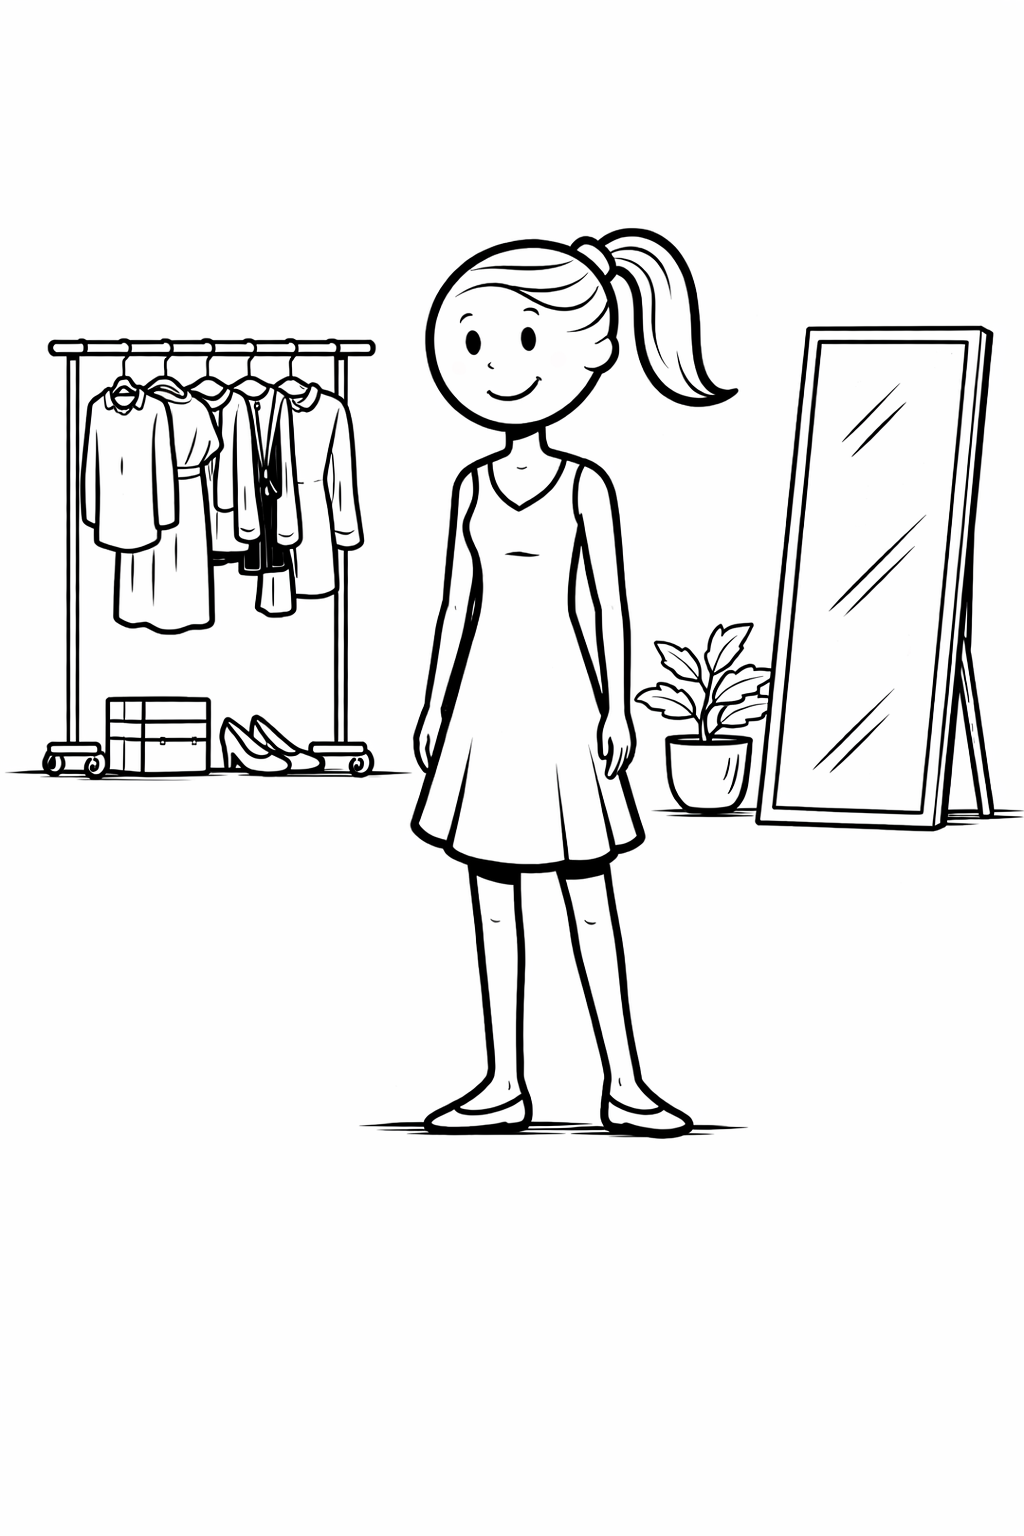
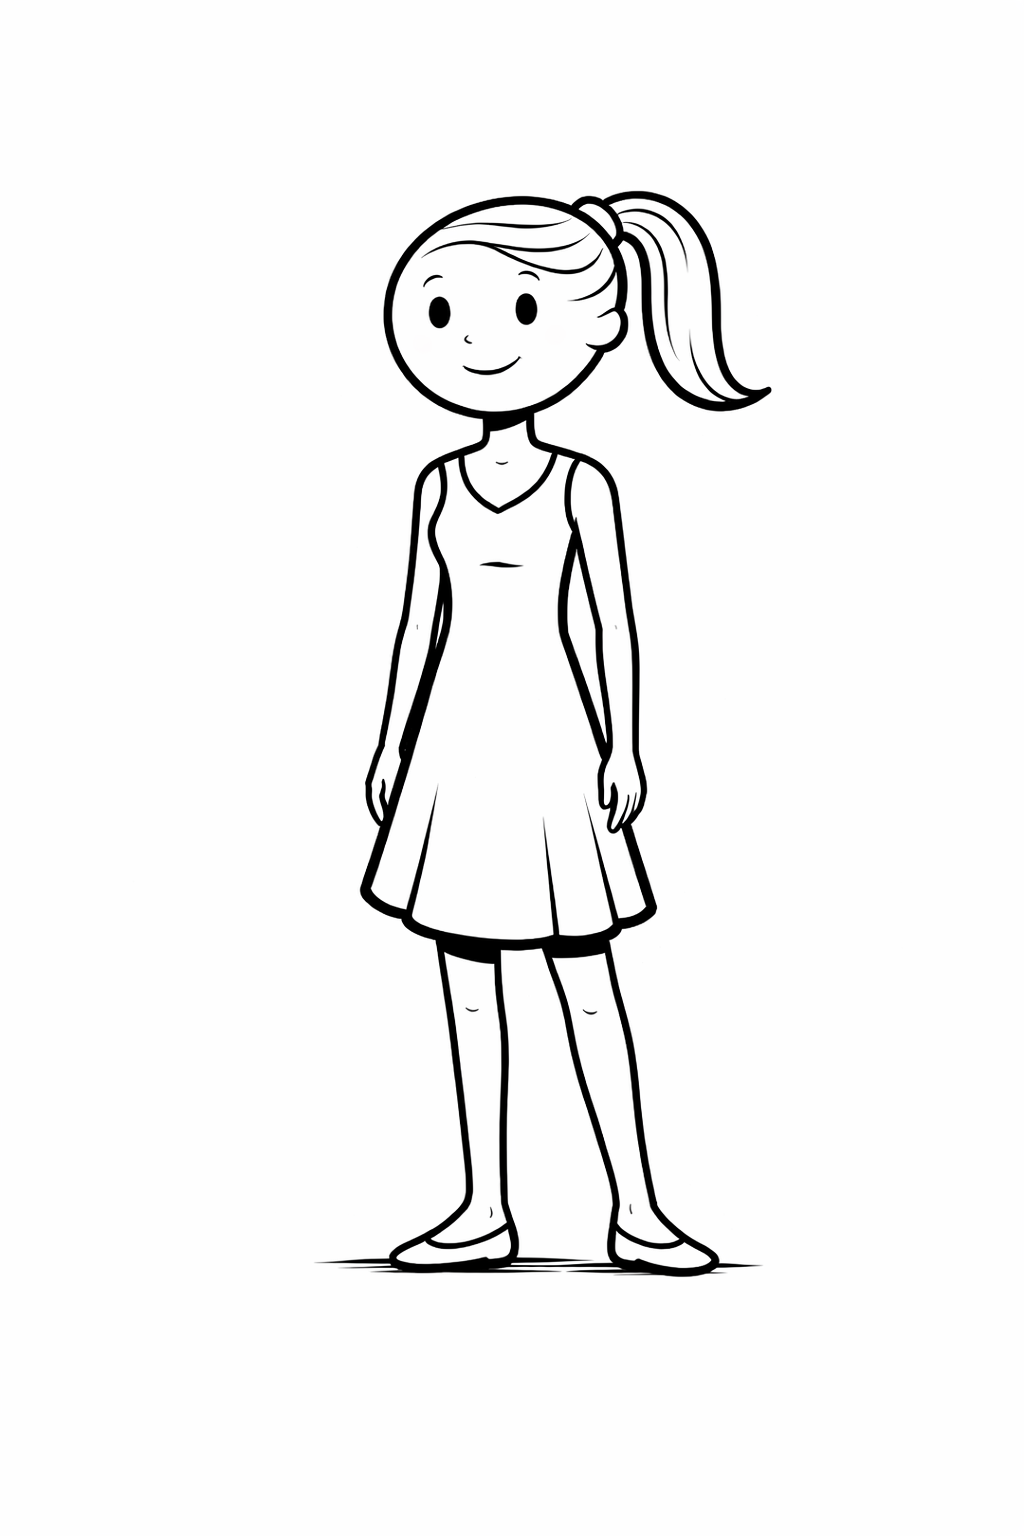
Fix brainstorming notes persistence and improve UI
- Fix brain dump notes reappearing after being handled (dismissed or appended)
  by tracking handled text in brainDumpHandledText field
- Update Production.tsx and StandaloneContentFlow.tsx with new logic
- Replace wide-shot illustration with new image
- Scale shot illustrations 20% larger (except reaction-moment and close-detail)
- Disable scroll in schedule dialog and reposition Batch Schedule button

Changed region(s): [[0.0312, 0.125, 0.9688, 0.8438], [0.8438, 0.3438, 0.875, 0.375], [0.8125, 0.375, 0.8438, 0.4062]]

diff --git a/src/pages/Production.tsx b/src/pages/Production.tsx
@@ -1147,12 +1147,13 @@ const Production = () => {
     setCustomVideoFormats(card.customVideoFormats || []);
     setCustomPhotoFormats(card.customPhotoFormats || []);
     // Check if card has brain dump notes from Ideate column
-    // Only show if notes exist AND haven't already been appended to the script
+    // Only show if notes exist AND haven't already been handled (dismissed or appended)
     const notesText = card.description?.trim() || "";
-    const scriptText = card.script?.trim() || "";
-    const notesAlreadyInScript = notesText && scriptText.includes(notesText);
+    const alreadyHandledText = card.brainDumpHandledText?.trim() || "";
+    const hasNotes = notesText.length > 0;
+    const alreadyHandled = alreadyHandledText.length > 0 && notesText === alreadyHandledText;
 
-    if (notesText && !notesAlreadyInScript) {
+    if (hasNotes && !alreadyHandled) {
       setBrainDumpSuggestion(card.description!);
       setShowBrainDumpSuggestion(true);
     } else {
@@ -1476,10 +1477,12 @@ const Production = () => {
     setSchedulingCard(card);
 
     // Check for brain dump suggestion
+    // Only show if notes exist AND haven't already been handled (dismissed or appended)
     const notesText = card.description?.trim() || "";
-    const scriptText = card.script?.trim() || "";
-    const notesAlreadyInScript = notesText && scriptText.includes(notesText);
-    if (notesText && !notesAlreadyInScript) {
+    const alreadyHandledText = card.brainDumpHandledText?.trim() || "";
+    const hasNotes = notesText.length > 0;
+    const alreadyHandled = alreadyHandledText.length > 0 && notesText === alreadyHandledText;
+    if (hasNotes && !alreadyHandled) {
       setBrainDumpSuggestion(card.description!);
       setShowBrainDumpSuggestion(true);
     } else {
@@ -1708,6 +1711,33 @@ const Production = () => {
     });
   };
 
+  // Handler for brain dump suggestion dismissal - saves the handled text to prevent reappearing
+  const handleBrainDumpDismiss = (show: boolean) => {
+    console.log('[BrainDump Prod] handleBrainDumpDismiss called with show:', show);
+    setShowBrainDumpSuggestion(show);
+
+    if (!show) {
+      // When dismissing, save the current description as handled text
+      const currentCard = contentFlowCard || editingScriptCard;
+      console.log('[BrainDump Prod] currentCard:', currentCard?.id, 'description:', currentCard?.description);
+
+      if (currentCard && currentCard.description) {
+        // Update the card with brainDumpHandledText
+        setColumns((prev) =>
+          prev.map((col) => ({
+            ...col,
+            cards: col.cards.map((card) =>
+              card.id === currentCard.id
+                ? { ...card, brainDumpHandledText: currentCard.description }
+                : card
+            ),
+          }))
+        );
+        console.log('[BrainDump Prod] Saved brainDumpHandledText:', currentCard.description);
+      }
+    }
+  };
+
   // Auto-save helper for Ideate dialog (saves without closing/resetting)
   const autoSaveIdeateCard = () => {
     if (!editingIdeateCard) return;
@@ -1906,12 +1936,17 @@ const Production = () => {
           setCardStatus(latestCard!.status || 'to-start');
           setCustomVideoFormats(latestCard!.customVideoFormats || []);
           setCustomPhotoFormats(latestCard!.customPhotoFormats || []);
-          // Show brain dump suggestion if notes exist and not already in script
+          // Check for brain dump suggestion
+          // Only show if notes exist AND haven't already been handled (dismissed or appended)
           {
             const notesText = latestCard!.description?.trim() || "";
-            const scriptText = latestCard!.script?.trim() || "";
-            const notesAlreadyInScript = notesText && scriptText.includes(notesText);
-            if (notesText && !notesAlreadyInScript) {
+            const alreadyHandledText = latestCard!.brainDumpHandledText?.trim() || "";
+            const hasNotes = notesText.length > 0;
+            const alreadyHandled = alreadyHandledText.length > 0 && notesText === alreadyHandledText;
+            console.log('[BrainDump Prod case 2] notesText:', notesText);
+            console.log('[BrainDump Prod case 2] alreadyHandledText:', alreadyHandledText);
+            console.log('[BrainDump Prod case 2] hasNotes:', hasNotes, 'alreadyHandled:', alreadyHandled);
+            if (hasNotes && !alreadyHandled) {
               setBrainDumpSuggestion(latestCard!.description!);
               setShowBrainDumpSuggestion(true);
             } else {
@@ -4895,7 +4930,7 @@ Make each idea unique, creative, and directly tied to both the original content 
           setScriptContent={setScriptContent}
           showBrainDumpSuggestion={showBrainDumpSuggestion}
           brainDumpSuggestion={brainDumpSuggestion}
-          setShowBrainDumpSuggestion={setShowBrainDumpSuggestion}
+          setShowBrainDumpSuggestion={handleBrainDumpDismiss}
           formatTags={formatTags}
           setFormatTags={setFormatTags}
           showCustomFormatInput={showCustomFormatInput}
@@ -5009,7 +5044,7 @@ Make each idea unique, creative, and directly tied to both the original content 
               setScriptContent={setScriptContent}
               showBrainDumpSuggestion={showBrainDumpSuggestion}
               brainDumpSuggestion={brainDumpSuggestion}
-              setShowBrainDumpSuggestion={setShowBrainDumpSuggestion}
+              setShowBrainDumpSuggestion={handleBrainDumpDismiss}
               platformTags={platformTags}
               setPlatformTags={setPlatformTags}
               formatTags={formatTags}

diff --git a/src/pages/production/components/ShotLibraryDialog.tsx b/src/pages/production/components/ShotLibraryDialog.tsx
@@ -61,25 +61,25 @@ const ShotIllustration: React.FC<{ shotId: string; className?: string }> = ({ sh
     case 'wide-shot':
       // PNG illustration - full body in room
       return (
-        <img src={wideShotIllustration} alt="Wide shot" className={cn("w-full h-full object-contain", className)} />
+        <img src={wideShotIllustration} alt="Wide shot" className={cn("w-full h-full object-contain scale-[1.2]", className)} />
       );
 
     case 'medium-shot':
       // PNG illustration - chest up talking
       return (
-        <img src={mediumShotIllustration} alt="Medium shot" className={cn("w-full h-full object-contain", className)} />
+        <img src={mediumShotIllustration} alt="Medium shot" className={cn("w-full h-full object-contain scale-[1.2]", className)} />
       );
 
     case 'close-up-shot':
       // PNG illustration - face close up
       return (
-        <img src={closeUpShotIllustration} alt="Close-up shot" className={cn("w-full h-full object-contain", className)} />
+        <img src={closeUpShotIllustration} alt="Close-up shot" className={cn("w-full h-full object-contain scale-[1.2]", className)} />
       );
 
     case 'hands-doing':
       // PNG illustration - hands cooking
       return (
-        <img src={handsDoingIllustration} alt="Hands doing something" className={cn("w-full h-full object-contain", className)} />
+        <img src={handsDoingIllustration} alt="Hands doing something" className={cn("w-full h-full object-contain scale-[1.2]", className)} />
       );
 
     case 'close-detail':
@@ -91,25 +91,25 @@ const ShotIllustration: React.FC<{ shotId: string; className?: string }> = ({ sh
     case 'at-desk':
       // PNG illustration - in your environment
       return (
-        <img src={atDeskIllustration} alt="In your environment" className={cn("w-full h-full object-contain", className)} />
+        <img src={atDeskIllustration} alt="In your environment" className={cn("w-full h-full object-contain scale-[1.2]", className)} />
       );
 
     case 'neutral-visual':
       // PNG illustration - city view
       return (
-        <img src={neutralVisualIllustration} alt="Neutral visual" className={cn("w-full h-full object-contain", className)} />
+        <img src={neutralVisualIllustration} alt="Neutral visual" className={cn("w-full h-full object-contain scale-[1.2]", className)} />
       );
 
     case 'moving-through':
       // PNG illustration - walking with dog
       return (
-        <img src={movingThroughIllustration} alt="Moving through space" className={cn("w-full h-full object-contain", className)} />
+        <img src={movingThroughIllustration} alt="Moving through space" className={cn("w-full h-full object-contain scale-[1.2]", className)} />
       );
 
     case 'quiet-cutaway':
       // PNG illustration - person adjusting shirt
       return (
-        <img src={quietCutawayIllustration} alt="Quiet cutaway" className={cn("w-full h-full object-contain", className)} />
+        <img src={quietCutawayIllustration} alt="Quiet cutaway" className={cn("w-full h-full object-contain scale-[1.2]", className)} />
       );
 
     case 'reaction-moment':
@@ -227,7 +227,9 @@ const ShotLibraryDialog: React.FC<ShotLibraryDialogProps> = ({
                   >
                     <div className="flex items-start gap-4">
                       {/* Shot illustration */}
-                      <ShotIllustration shotId={template.id} className="w-20 h-20 flex-shrink-0" />
+                      <div className="w-20 h-20 flex-shrink-0 overflow-hidden rounded-lg">
+                        <ShotIllustration shotId={template.id} className="w-full h-full" />
+                      </div>
                       <div className="flex-1 min-w-0">
                         <div className="flex items-center gap-2 mb-1">
                           <h3 className={cn(
@@ -275,7 +277,9 @@ const ShotLibraryDialog: React.FC<ShotLibraryDialogProps> = ({
                 <div className="space-y-5">
                   {/* Shot illustration - large */}
                   <div className="flex justify-center">
-                    <ShotIllustration shotId={selectedShot.id} className="w-40 h-40" />
+                    <div className="w-40 h-40 overflow-hidden rounded-xl">
+                      <ShotIllustration shotId={selectedShot.id} className="w-full h-full" />
+                    </div>
                   </div>
 
                   {/* Shot title */}

diff --git a/src/components/planner/dailyPlanner/components/StandaloneContentFlow.tsx b/src/components/planner/dailyPlanner/components/StandaloneContentFlow.tsx
@@ -143,13 +143,26 @@ const StandaloneContentFlow: React.FC<StandaloneContentFlowProps> = ({
     setCustomPhotoFormats(card.customPhotoFormats || []);
 
     // Check for brain dump suggestion
+    // Show if: notes exist AND notes are different from what was already handled (appended or dismissed)
     const notesText = card.description?.trim() || "";
-    const scriptText = card.script?.trim() || "";
-    const notesAlreadyInScript = notesText && scriptText.includes(notesText);
-    if (notesText && !notesAlreadyInScript) {
+    const alreadyHandledText = card.brainDumpHandledText?.trim() || "";
+
+    // Only show if there are actual notes AND they haven't been handled yet
+    const hasNotes = notesText.length > 0;
+    const alreadyHandled = alreadyHandledText.length > 0 && notesText === alreadyHandledText;
+
+    if (hasNotes && !alreadyHandled) {
       setBrainDumpSuggestion(card.description!);
       setShowBrainDumpSuggestion(true);
+    } else {
+      setBrainDumpSuggestion("");
+      setShowBrainDumpSuggestion(false);
     }
+
+    // Debug log - remove after testing
+    console.log('[BrainDump] notesText:', notesText);
+    console.log('[BrainDump] alreadyHandledText:', alreadyHandledText);
+    console.log('[BrainDump] hasNotes:', hasNotes, 'alreadyHandled:', alreadyHandled);
 
     // Determine initial step based on completion
     if (!initialStep) {
@@ -272,6 +285,18 @@ const StandaloneContentFlow: React.FC<StandaloneContentFlowProps> = ({
     setPlatformTags(platformTags.filter(t => t !== tag));
   };
 
+  // Handle brain dump suggestion dismissal - also save to card so it doesn't show again
+  const handleBrainDumpDismiss = useCallback((show: boolean) => {
+    console.log('[BrainDump] handleBrainDumpDismiss called with show:', show);
+    console.log('[BrainDump] card?.description:', card?.description);
+    setShowBrainDumpSuggestion(show);
+    if (!show && card?.description) {
+      // Save the current notes text so it won't show again (unless edited in Ideate)
+      console.log('[BrainDump] Saving brainDumpHandledText:', card.description);
+      saveCard({ brainDumpHandledText: card.description });
+    }
+  }, [card?.description, saveCard]);
+
   // Close handler - save current step data
   const handleClose = () => {
     // Save any pending changes based on current step
@@ -374,7 +399,7 @@ const StandaloneContentFlow: React.FC<StandaloneContentFlowProps> = ({
                 setScriptContent={setScriptContent}
                 showBrainDumpSuggestion={showBrainDumpSuggestion}
                 brainDumpSuggestion={brainDumpSuggestion}
-                setShowBrainDumpSuggestion={setShowBrainDumpSuggestion}
+                setShowBrainDumpSuggestion={handleBrainDumpDismiss}
                 platformTags={platformTags}
                 setPlatformTags={setPlatformTags}
                 formatTags={formatTags}

diff --git a/src/pages/production/components/ExpandedScheduleView.tsx b/src/pages/production/components/ExpandedScheduleView.tsx
@@ -1591,7 +1591,7 @@ const ExpandedScheduleView: React.FC<ExpandedScheduleViewProps> = ({
       )}
       {/* Main content - split panels with step progress integrated */}
       <div className={cn(
-        "flex-1 overflow-y-auto grid transition-all duration-300 min-h-0",
+        "flex-1 overflow-hidden grid transition-all duration-300 min-h-0",
         singleCard && isLeftPanelCollapsed ? "grid-cols-[1fr]" : isLeftPanelCollapsed ? "grid-cols-[48px_1fr]" : "grid-cols-[300px_1fr]"
       )} style={{ gridTemplateRows: '1fr' }}>
         {/* Top spacing for batch view (no stepper) */}
@@ -1694,7 +1694,7 @@ const ExpandedScheduleView: React.FC<ExpandedScheduleViewProps> = ({
             </div>
           )}
 
-          {/* Body - scrollable */}
+          {/* Body */}
           <div className={cn(
             "flex-1 min-h-0 overflow-y-auto transition-all duration-300",
             isLeftPanelCollapsed ? "p-0 opacity-0 overflow-hidden" : "px-2 -mt-2 pb-4 opacity-100"
@@ -2027,7 +2027,7 @@ const ExpandedScheduleView: React.FC<ExpandedScheduleViewProps> = ({
                   </p>
 
                   {/* Batch Schedule link */}
-                  <div className="!mt-32 pt-16 text-center">
+                  <div className="!mt-20 text-center">
                     <button
                       onClick={() => {
                         if (onClose) onClose();

diff --git a/src/pages/production/types.ts b/src/pages/production/types.ts
@@ -69,6 +69,7 @@ export interface ProductionCard {
   plannedColor?: 'indigo' | 'rose' | 'amber' | 'emerald' | 'sky' | 'violet' | 'orange' | 'cyan' | 'sage'; // Color for planned items on calendar
   plannedStartTime?: string; // Start time for planned content (e.g., "9:00 am")
   plannedEndTime?: string; // End time for planned content (e.g., "10:00 am")
+  brainDumpHandledText?: string; // The notes text that was already appended or dismissed in script editor
 }
 
 export interface KanbanColumn {

diff --git a/src/pages/production/components/StoryboardEditorDialog.tsx b/src/pages/production/components/StoryboardEditorDialog.tsx
@@ -203,7 +203,7 @@ const SortableSceneCard: React.FC<SortableSceneCardProps> = ({
             <img
               src={shotIllustrations[selectedTemplate.id]}
               alt={selectedTemplate.user_facing_name}
-              className="h-full object-contain"
+              className="h-full object-contain scale-[1.2]"
             />
           </button>
         ) : (
